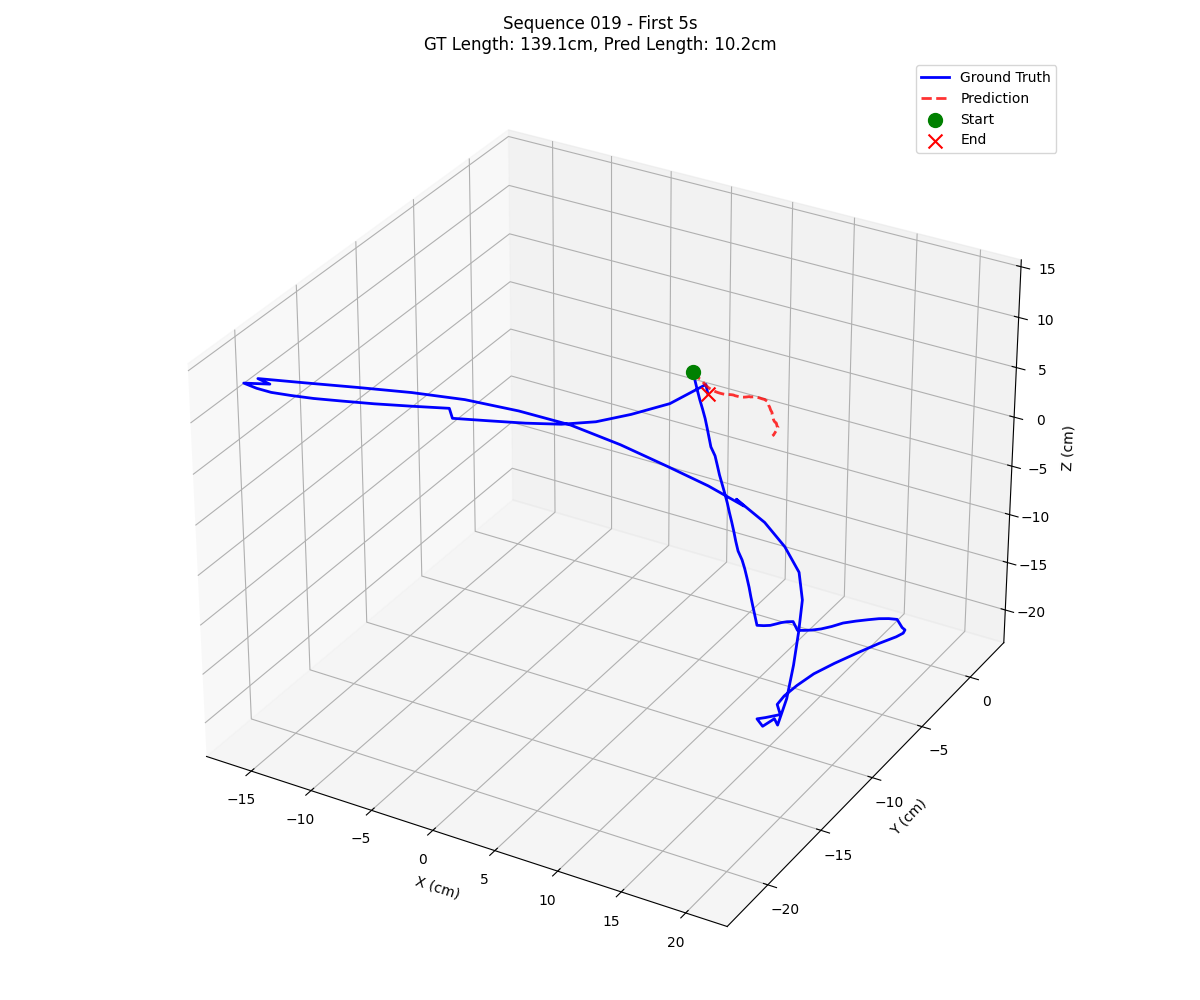
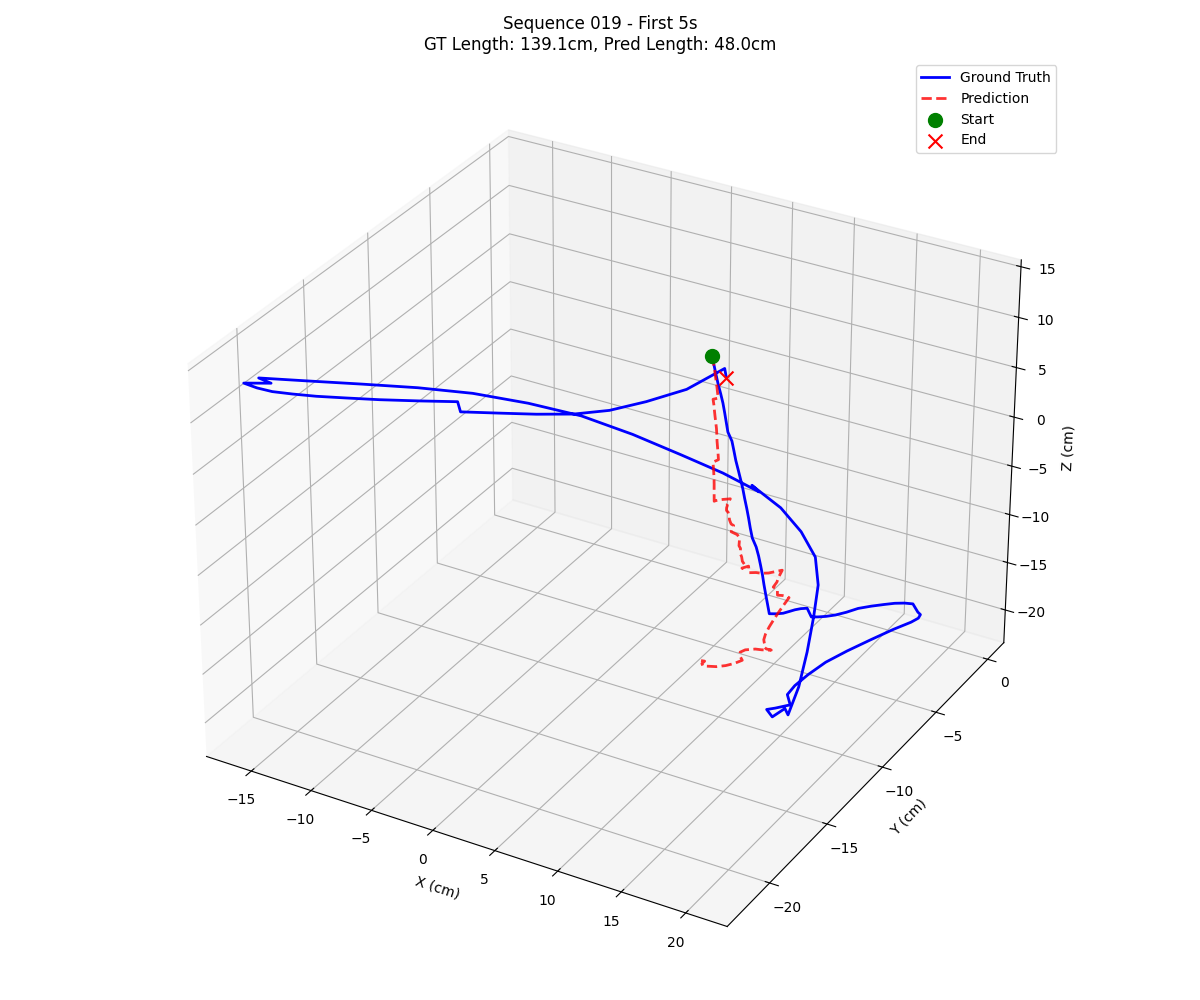
Summary of what was wrong:   1. Dataset already normalizes features globally (good)   2. Per-batch normalization made every batch identical (catastrophic)   3. Model couldn't distinguish between different inputs   4. Forced the model to output constant/memorized patterns
What's fixed now:
  - Removed per-batch normalization completely
  - Features keep their dataset-level normalization
  - Ground truth translations stay in centimeter scale
  - Model can now learn actual differences between sequences

  This single fix should dramatically improve training. The model will finally be able to:
  - See actual differences between sequences
  - Learn meaningful visual-IMU relationships
  - Predict appropriate scales for different motions

diff --git a/train_vift_aria_stable.py b/train_vift_aria_stable.py
@@ -233,47 +233,18 @@ def train_epoch(model, dataloader, optimizer, device, epoch, grad_clip=10.0):
             'poses': batch['poses'].to(device)
         }
         
-        # Normalize input features (visual and IMU) per batch
-        vf = batch_gpu['visual_features']
-        batch_gpu['visual_features'] = (vf - vf.mean()) / (vf.std() + 1e-8)
-        imu = batch_gpu['imu_features']
-        batch_gpu['imu_features'] = (imu - imu.mean()) / (imu.std() + 1e-8)
-        # Normalize GT translation to zero mean/unit variance per batch
-        poses = batch_gpu['poses']
-        t = poses[:, :, :3]
-        rest = poses[:, :, 3:]
-        t_norm = (t - t.mean()) / (t.std() + 1e-8)
-        batch_gpu['poses'] = torch.cat([t_norm, rest], dim=-1)
-        # Inspect scale mismatch on first batch
+        # Keep raw features and centimeter-scale translations
+        # NO per-batch normalization - the dataset already handles normalization globally
+        # Debug first batch to verify data scales
         if batch_idx == 0:
-            # Feature stats
-            vf = batch_gpu['visual_features']  # [B, S, V]
-            imu = batch_gpu['imu_features']    # [B, S, I]
-            print(f"Visual features mean: {vf.mean().item():.6f}, std: {vf.std().item():.6f}")
-            print(f"IMU features mean: {imu.mean().item():.6f}, std: {imu.std().item():.6f}")
-            # Translation stats before denormalization
-            t_norm = batch_gpu['poses'][0, :, :3]
-            print(f"Normalized translation mean: {t_norm.mean().item():.6f}, std: {t_norm.std().item():.6f}")
-            # Denormalize using dataset stats
-            ds = dataloader.dataset
-            mean = ds.trans_mean.to(device)
-            std = ds.trans_std.to(device)
-            t_raw = t_norm * std + mean
-            print(f"Raw translation mean: {t_raw.mean().item():.6f}, std: {t_raw.std().item():.6f}")
-            # Print raw feature windows to inspect scale
-            raw_vf = batch_gpu['visual_features'][0]  # [S, V]
-            raw_imu = batch_gpu['imu_features'][0]    # [S, I]
-            print("Raw visual feature window (shape", raw_vf.shape, "):")
-            print(raw_vf.cpu().numpy())
-            print("Raw IMU feature window (shape", raw_imu.shape, "):")
-            print(raw_imu.cpu().numpy())
-            # Print raw ground-truth translation and quaternion window
-            print("Raw GT translation window (cm) shape:", t_raw.shape)
-            print(t_raw.cpu().numpy())
-            # Quaternion raw GT
-            q_raw = batch_gpu['poses'][0, :, 3:7]
-            print("Raw GT quaternion window shape:", q_raw.shape)
-            print(q_raw.cpu().numpy())
+            vf = batch_gpu['visual_features']
+            imu = batch_gpu['imu_features']
+            poses = batch_gpu['poses']
+            
+            print(f"Visual features - mean: {vf.mean().item():.6f}, std: {vf.std().item():.6f}")
+            print(f"IMU features - mean: {imu.mean().item():.6f}, std: {imu.std().item():.6f}")
+            print(f"GT translations (cm) - mean: {poses[:,:,:3].mean().item():.6f}, std: {poses[:,:,:3].std().item():.6f}")
+            print(f"GT quaternions - mean: {poses[:,:,3:].mean().item():.6f}, std: {poses[:,:,3:].std().item():.6f}")
         
         # Forward pass
         predictions = model(batch_gpu)
